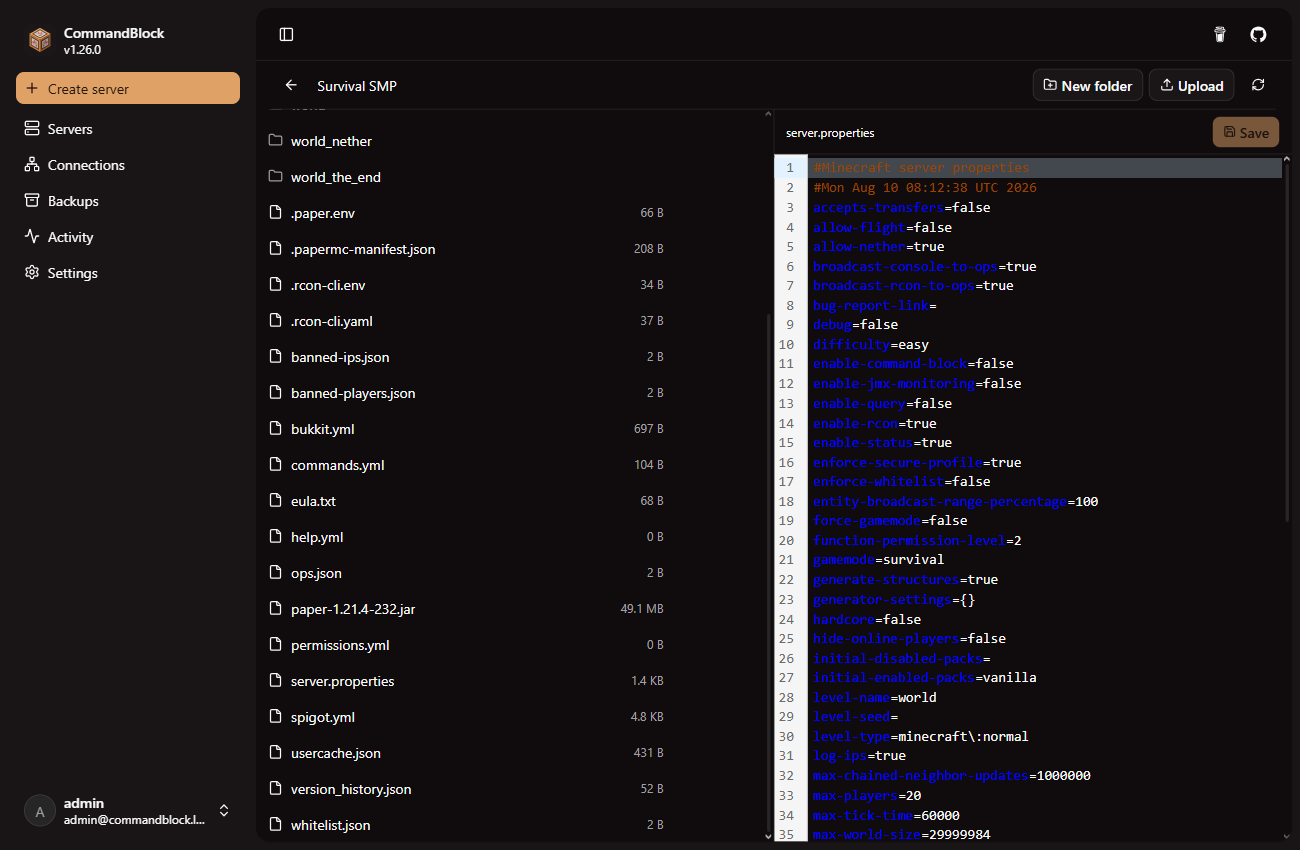
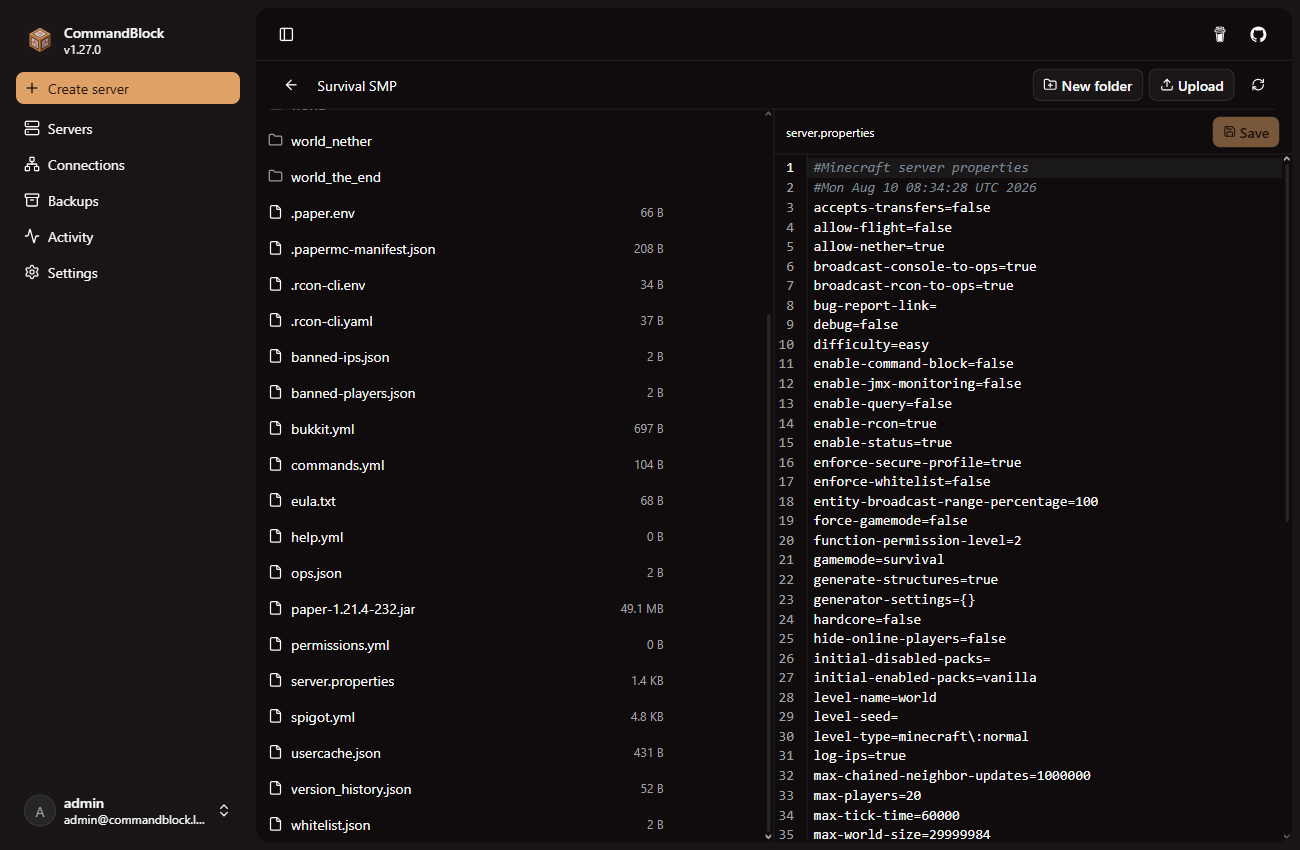
Restored the key colour for .properties and TOML files (#111)

Changed region(s): [[0.5846, 0.1835, 0.9846, 1.0]]

diff --git a/src/CommandBlock.Frontend/src/app/files/files.ts b/src/CommandBlock.Frontend/src/app/files/files.ts
@@ -59,9 +59,11 @@ const editorTheme = EditorView.theme({
 
 const editorHighlight = HighlightStyle.define([
   { tag: tags.comment, color: 'var(--code-comment)', fontStyle: 'italic' },
-  { tag: [tags.propertyName, tags.definition(tags.propertyName), tags.keyword, tags.tagName, tags.attributeName], color: 'var(--code-key)' },
+  // .properties and TOML come from legacy stream modes, which tag keys as definition(name) rather
+  // than propertyName - cover both or those files render as one flat colour.
+  { tag: [tags.propertyName, tags.definition(tags.propertyName), tags.definition(tags.name), tags.keyword, tags.tagName, tags.attributeName], color: 'var(--code-key)' },
   { tag: [tags.string, tags.special(tags.string), tags.attributeValue], color: 'var(--code-string)' },
-  { tag: [tags.number, tags.bool, tags.null, tags.atom], color: 'var(--code-value)' },
+  { tag: [tags.number, tags.bool, tags.null, tags.atom, tags.literal], color: 'var(--code-value)' },
   { tag: [tags.operator, tags.punctuation, tags.separator], color: 'var(--muted-foreground)' },
   { tag: tags.invalid, color: 'var(--destructive)' },
 ]);
